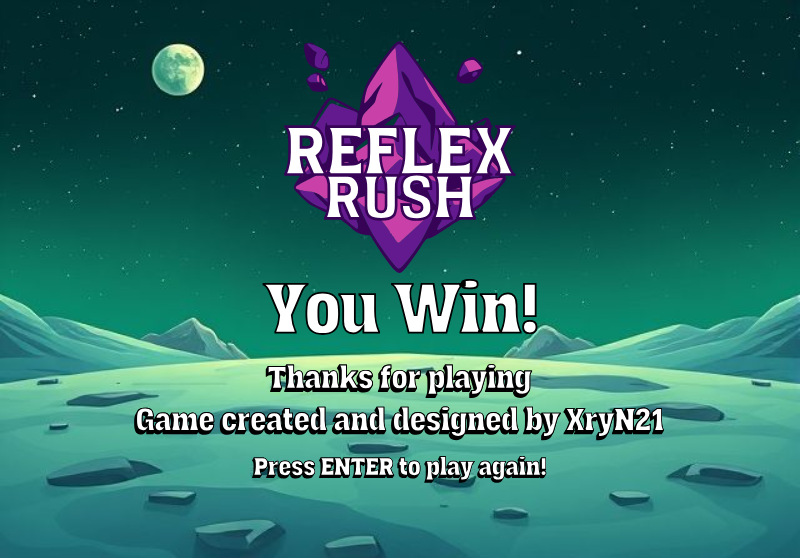
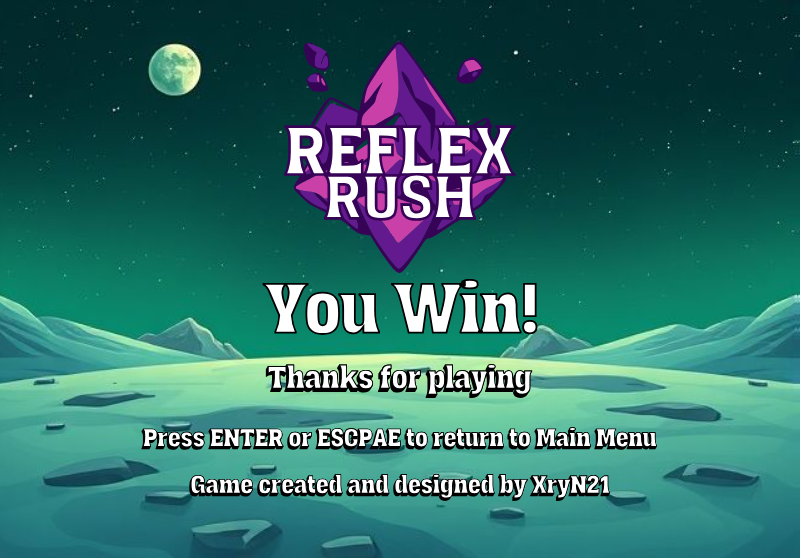
Create credits pages for when you lose and win and use state manager to go back to main menu

diff --git a/lib/game_window.rb b/lib/game_window.rb
@@ -1,8 +1,4 @@
 require "gosu"
-require_relative "player"
-require_relative "rock"
-require_relative "state_manager"
-require_relative "main_menu"
 
 #Game Logic and gameplay
 
@@ -106,6 +102,7 @@ class GameWindow
     you_lose
     level_up
     you_win
+    game_over
   end
 
   def draw
@@ -147,12 +144,14 @@ class GameWindow
 
       @score_background.draw 0, 550, 0, 1, 0.19, 0xBFffffff
       @empty_hearts.draw 25, -200, 0, 0.60, 0.60
+
+      #Lives - hearts
       heart_x = -188
       @player.lives.times do
         @heart.draw heart_x, -215, 0, 0.60, 0.60
         heart_x += 47.5
       end
-      @font.draw_text("Lives: #{@player.lives}",20,20, ZOrder::UI, 1.0, 1.0, Gosu::Color::YELLOW)
+
       @font.draw_text("Score: #{@player.score}",130,565, ZOrder::UI, 1.0, 1.0, Gosu::Color::YELLOW)
       @font.draw_text("Level: #{@level}/#{@backgrounds.length-1}", 20, 565, ZOrder::UI, 1.0, 1.0, Gosu::Color::YELLOW)
       @font.draw_text("Score #{@score_to_advance} to advance", 600, 565, ZOrder::UI, 1.0, 1.0, Gosu::Color::YELLOW)
@@ -195,13 +194,16 @@ class GameWindow
     if @player.victory?(@level, @backgrounds)
       @win_sound.play
       @level += 1
+      @game_music.stop
+      @state_manager.switch_to(Credits.new(@state_manager, "win"))
     end
   end
 
   def game_over
     if @player.lives == 0
       @lose_sound.play
-      @state_manager.switch_to(Credits.new(@state_manager))
+      @game_music.stop
+      @state_manager.switch_to(Credits.new(@state_manager, "lost"))
     end
   end
 end

diff --git a/lib/credits.rb b/lib/credits.rb
@@ -1,0 +1,28 @@
+require "gosu"
+
+class Credits
+  def initialize state_manager, result
+    @state_manager = state_manager
+    @result        = result
+    @credit_win    = Gosu::Image.new("graphics/credit_page.png")
+    @credit_lose   = Gosu::Image.new("graphics/credit_lose.png")
+
+  end
+
+  def update; end
+
+  def draw
+    if @result == "win"
+      @credit_win.draw 0, 0, 0, 1, 1
+    elsif  @result == "lost"
+      @credit_lose.draw 0, 0, 0, 1, 1
+    end
+  end
+
+  def button_down id
+    case id
+    when Gosu::KB_RETURN || Gosu::KB_ESCAPE
+        @state_manager.switch_to(MainMenu.new(@state_manager))
+    end
+  end
+end

diff --git a/lib/main_menu.rb b/lib/main_menu.rb
@@ -1,6 +1,4 @@
 require 'gosu'
-require_relative "state_manager"
-require_relative "game_window"
 # Main menu Logic
 
 class MainMenu
